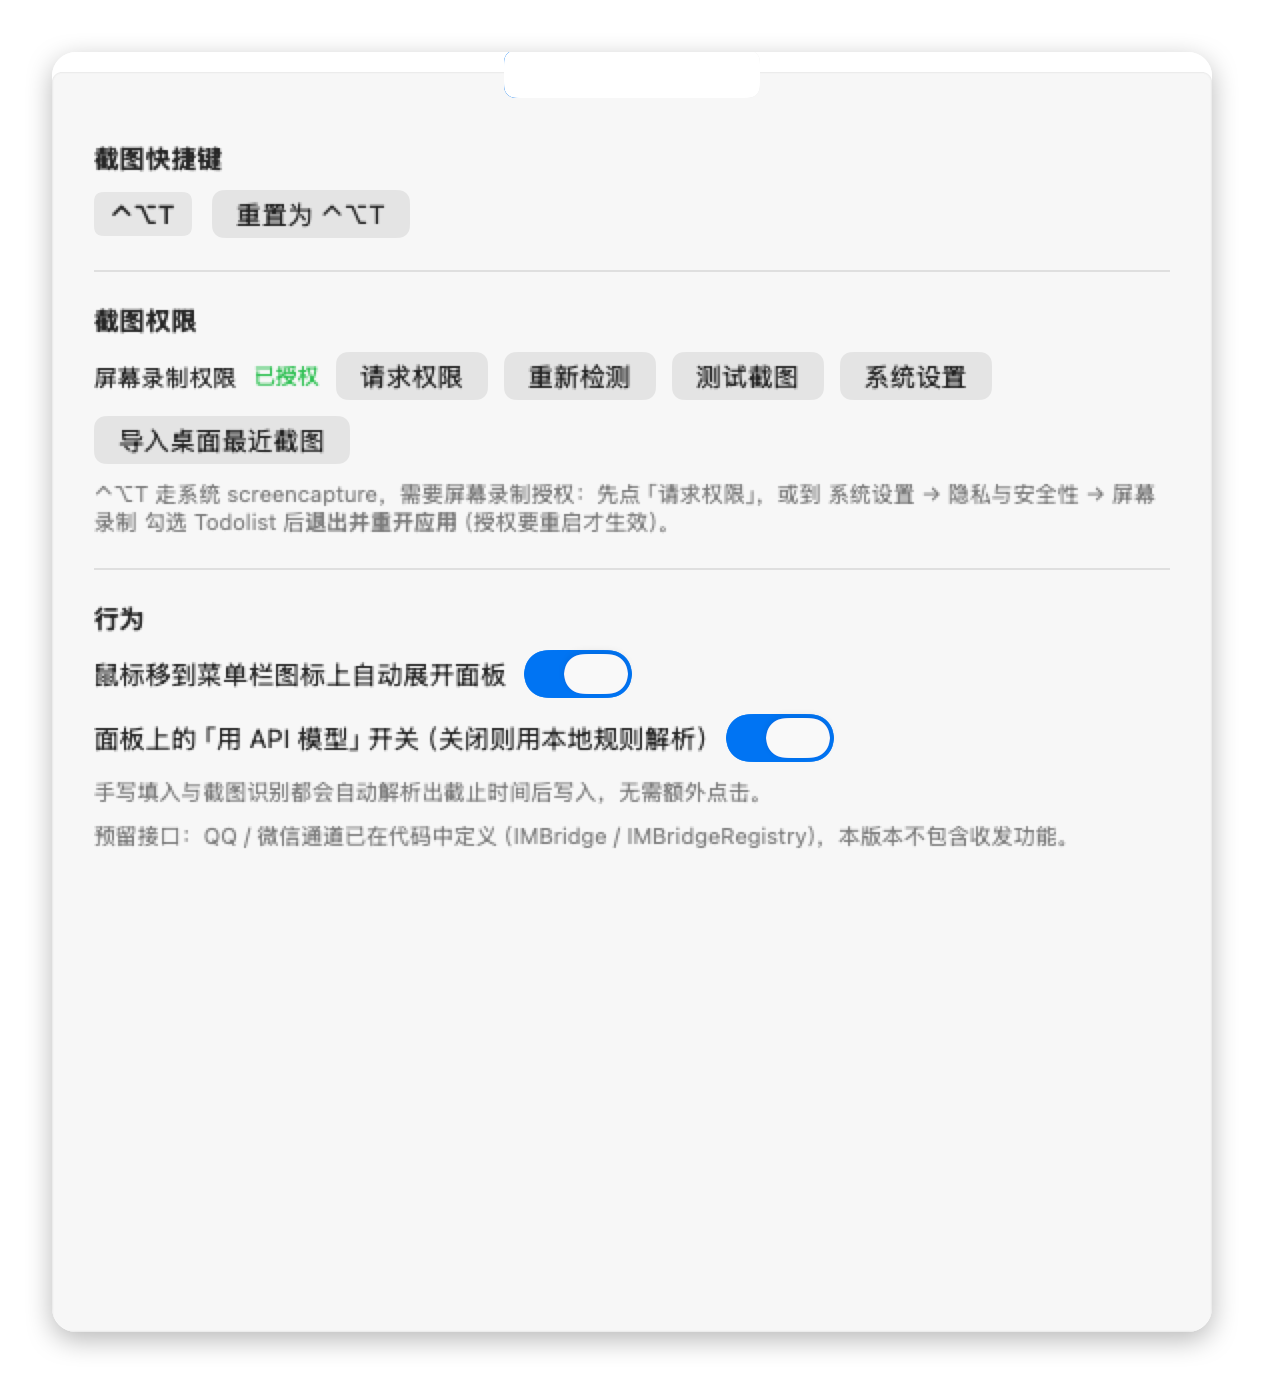
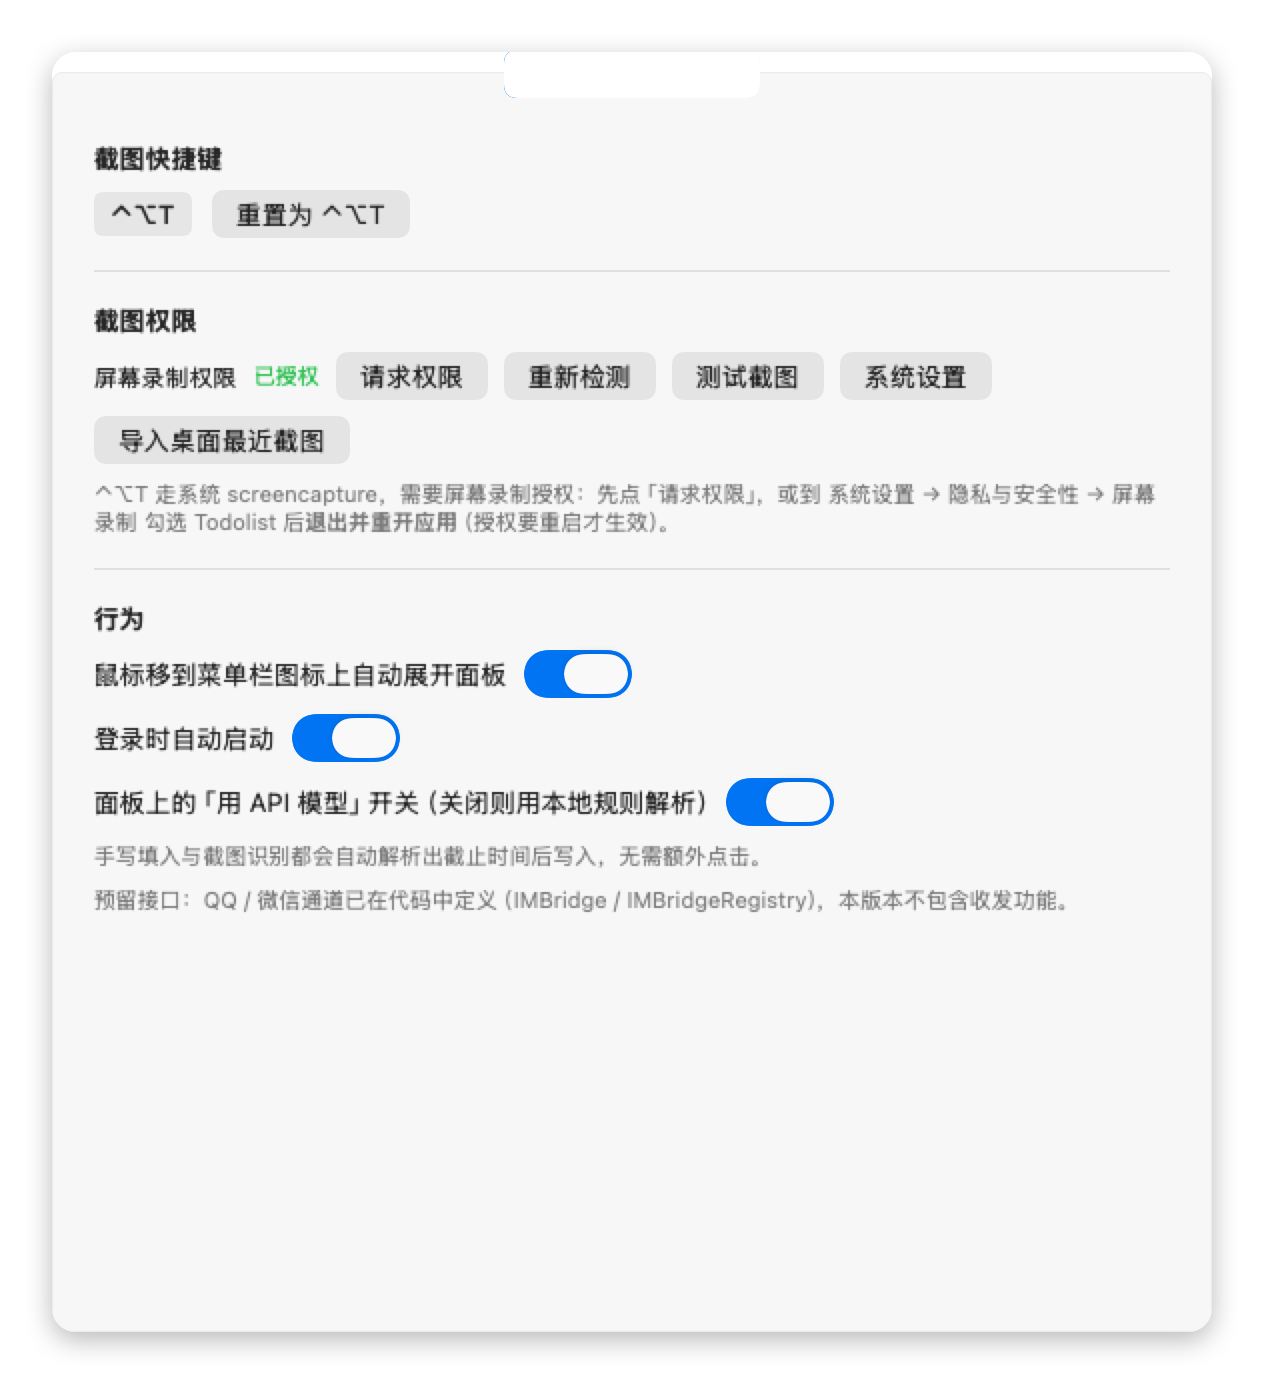
feat: 支持登录时自动启动
- 新增 LaunchAtLogin，用 SMAppService 注册/注销登录项（系统设置 → 通用 → 登录项 可见）
- 设置页「行为」分组加开关，状态实时回读并显示异常原因
- 新增 --login-item-on/off/status 命令行入口，便于免点界面自检
- README 补充该功能说明

Changed region(s): [[0.0617, 0.4971, 0.8331, 0.6835]]

diff --git a/Sources/SettingsView.swift b/Sources/SettingsView.swift
@@ -23,6 +23,8 @@ struct GeneralSettingsTab: View {
     @ObservedObject var settings: SettingsStore
 
     @State private var screenGranted: Bool = ScreenCapturePermission.isGranted
+    @State private var launchAtLogin: Bool = LaunchAtLogin.isEnabled
+    @State private var loginItemMessage: String?
     @State private var captureDiagnostic: String?
 
     var body: some View {
@@ -36,7 +38,10 @@ struct GeneralSettingsTab: View {
             }
             .padding(18)
         }
-        .onAppear { screenGranted = ScreenCapturePermission.isGranted }
+        .onAppear {
+            screenGranted = ScreenCapturePermission.isGranted
+            launchAtLogin = LaunchAtLogin.isEnabled
+        }
     }
 
     private var hotkeySection: some View {
@@ -99,6 +104,23 @@ struct GeneralSettingsTab: View {
             Text("行为").font(.headline)
             Toggle("鼠标移到菜单栏图标上自动展开面板", isOn: $settings.settings.hoverOpensPanel)
                 .toggleStyle(.switch)
+            Toggle("登录时自动启动", isOn: Binding(
+                get: { launchAtLogin },
+                set: { on in
+                    if let error = LaunchAtLogin.setEnabled(on) {
+                        loginItemMessage = "设置失败：" + error
+                    } else {
+                        loginItemMessage = LaunchAtLogin.statusText
+                    }
+                    launchAtLogin = LaunchAtLogin.isEnabled
+                }
+            ))
+            .toggleStyle(.switch)
+            if let loginItemMessage {
+                Text(loginItemMessage)
+                    .font(.system(size: 11))
+                    .foregroundColor(.secondary)
+            }
             Toggle("面板上的「用 API 模型」开关（关闭则用本地规则解析）", isOn: Binding(
                 get: { settings.settings.useRemoteModel },
                 set: { app.setUseRemoteModel($0) }

diff --git a/Sources/LaunchAtLogin.swift b/Sources/LaunchAtLogin.swift
@@ -1,0 +1,36 @@
+import Foundation
+import ServiceManagement
+
+/// 登录时自动启动：用 macOS 13+ 的 SMAppService，注册项会出现在
+/// 系统设置 → 通用 → 登录项 里，而不是自己往 LaunchAgents 写 plist。
+enum LaunchAtLogin {
+    static var isEnabled: Bool {
+        SMAppService.mainApp.status == .enabled
+    }
+
+    static var statusText: String {
+        switch SMAppService.mainApp.status {
+        case .enabled: return "已开启"
+        case .notRegistered: return "未开启"
+        case .notFound: return "未找到应用（请先装到 /Applications）"
+        case .requiresApproval: return "等待系统批准（系统设置 → 通用 → 登录项）"
+        @unknown default: return "状态未知"
+        }
+    }
+
+    /// 成功返回 nil，失败返回错误描述。
+    static func setEnabled(_ enabled: Bool) -> String? {
+        do {
+            if enabled {
+                if SMAppService.mainApp.status != .enabled {
+                    try SMAppService.mainApp.register()
+                }
+            } else if SMAppService.mainApp.status == .enabled {
+                try SMAppService.mainApp.unregister()
+            }
+            return nil
+        } catch {
+            return error.localizedDescription
+        }
+    }
+}

diff --git a/Sources/AppController.swift b/Sources/AppController.swift
@@ -439,6 +439,23 @@ final class AppController: ObservableObject, TodoIngest {
 
 final class AppDelegate: NSObject, NSApplicationDelegate {
     func applicationDidFinishLaunching(_ notification: Notification) {
+        if let flag = CommandLine.arguments.first(where: { $0.hasPrefix("--login-item") }) {
+            let result: String
+            switch flag {
+            case "--login-item-on":
+                result = LaunchAtLogin.setEnabled(true).map { "开启失败：" + $0 } ?? "已开启"
+            case "--login-item-off":
+                result = LaunchAtLogin.setEnabled(false).map { "关闭失败：" + $0 } ?? "已关闭"
+            default:
+                result = "当前状态：" + LaunchAtLogin.statusText
+            }
+            let line = result + "（isEnabled=" + String(LaunchAtLogin.isEnabled) + "）"
+            try? line.write(to: TodoStore.defaultDirectory().appendingPathComponent("login-item.txt"),
+                            atomically: true, encoding: .utf8)
+            NSLog("[login-item] " + line)
+            NSApp.terminate(nil)
+            return
+        }
         if CommandLine.arguments.contains("--self-test") {
             Task { @MainActor in
                 let result = await AppController.shared.diagnoseCapture()

diff --git a/README.md b/README.md
@@ -56,7 +56,8 @@ security remove-trusted-cert -d <导出的 cert.pem>              # 撤销信任
 | 「截图识别」右侧的模型菜单 | 列出**当前 API 配置**多选保留的模型，挑一个即刻调用 |
 | 同一位置（未配置 Key 时） | 显示「配置模型」按钮，点开直接进设置去填 Key |
 | 同一行的开关 | 「用 API 模型」：开=远端模型解析，关=本地规则解析；没填 Key 时标签会标「· 缺 Key」并仍走本地规则 |
-| 「⋯」 | 清除已完成 / 打开数据文件夹 / 退出 |
+| 「⋯」 | 导入最近截图 / 屏幕录制权限 / 清除已完成 / 打开数据文件夹 / 退出 |
+| 设置 → 行为 → 登录时自动启动 | 开机自动运行；用 `SMAppService` 注册，可在 系统设置 → 通用 → 登录项 里查看或停用 |
 
 列表排序：未完成按截止时间升序，无截止时间的置底；已完成沉底。过期项整体标红。
 
